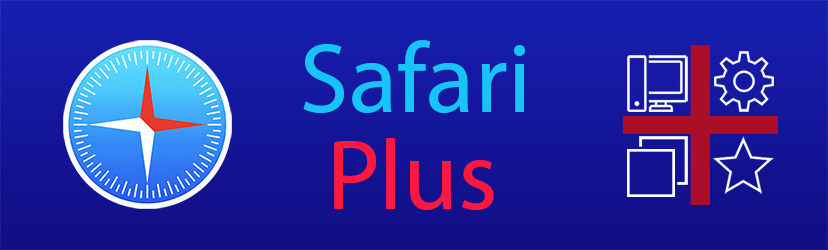
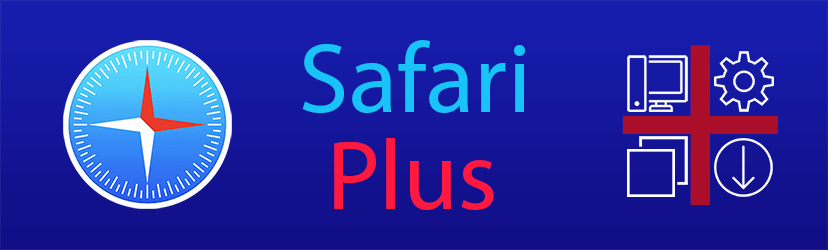
Fixed up Preference Header Image + Option to always open links in new tab

diff --git a/Preferences/SafariPlusPrefs.m b/Preferences/SafariPlusPrefs.m
@@ -15,6 +15,40 @@
 	return _specifiers;
 }
 
+- (UIView *)tableView:(UITableView *)tableView viewForHeaderInSection:(NSInteger)section
+{
+	if(section == 0)
+	{
+		return self.headerView;
+  }
+
+	return nil;
+}
+
+- (CGFloat)tableView:(UITableView *)tableView heightForHeaderInSection:(NSInteger)section
+{
+	if(!self.headerView)
+	{
+		UIImage* headerImage = [UIImage imageWithContentsOfFile:[NSString
+			stringWithFormat:@"%@/PrefHeader.png", bundlePath]];
+
+		self.headerView = [[UIImageView alloc] initWithImage:headerImage];
+
+		CGFloat aspectRatio = 3.312;
+		CGFloat width = self.parentViewController.view.frame.size.width;
+		CGFloat height = width / aspectRatio;
+
+		self.headerView.frame = CGRectMake(0,0,width,height);
+	}
+
+	if(section == 0)
+	{
+		return self.headerView.frame.size.height;
+	}
+
+	return 0;
+}
+
 - (void)sourceLink
 {
   [[UIApplication sharedApplication] openURL:[NSURL URLWithString:@"https://github.com/opa334/SafariPlus"]];

diff --git a/SPPreferenceManager.h b/SPPreferenceManager.h
@@ -51,6 +51,7 @@ static NSString *const SarafiPlusPrefsDomain = @"com.opa334.safariplusprefs";
 
 @property(nonatomic, readonly) BOOL enableFullscreenScrolling;
 @property(nonatomic, readonly) BOOL disablePrivateMode;
+@property(nonatomic, readonly) BOOL alwaysOpenNewTabEnabled;
 @property(nonatomic, readonly) BOOL suppressMailToDialog;
 
 @property(nonatomic, readonly) BOOL appTintColorNormalEnabled;

diff --git a/SafariPlus.h b/SafariPlus.h
@@ -284,7 +284,7 @@
 - (void)_loadStartedDuringSimulatedClickForURL:(id)arg1;
 - (void)reload;
 - (BOOL)privateBrowsingEnabled;
-- (WebBookmark *)readingListBookmark;
+- (WebBookmark*)readingListBookmark;
 - (void)_closeTabDocumentAnimated:(BOOL)arg1;
 - (void)_animateElement:(id)arg1 toToolbarButton:(int)arg2;
 - (id)loadURL:(id)arg1 userDriven:(BOOL)arg2;

diff --git a/Preferences/SafariPlusPrefs.h b/Preferences/SafariPlusPrefs.h
@@ -14,7 +14,8 @@
 - (BOOL)performDeletionActionForSpecifier:(id)arg1;
 @end
 
-@interface SafariPlusRootListController : PSListController {}
+@interface SafariPlusRootListController : PSListController<UITableViewDelegate>
+@property(nonatomic) UIImageView* headerView;
 @end
 
 @interface GeneralPrefsController : PSListController {}
